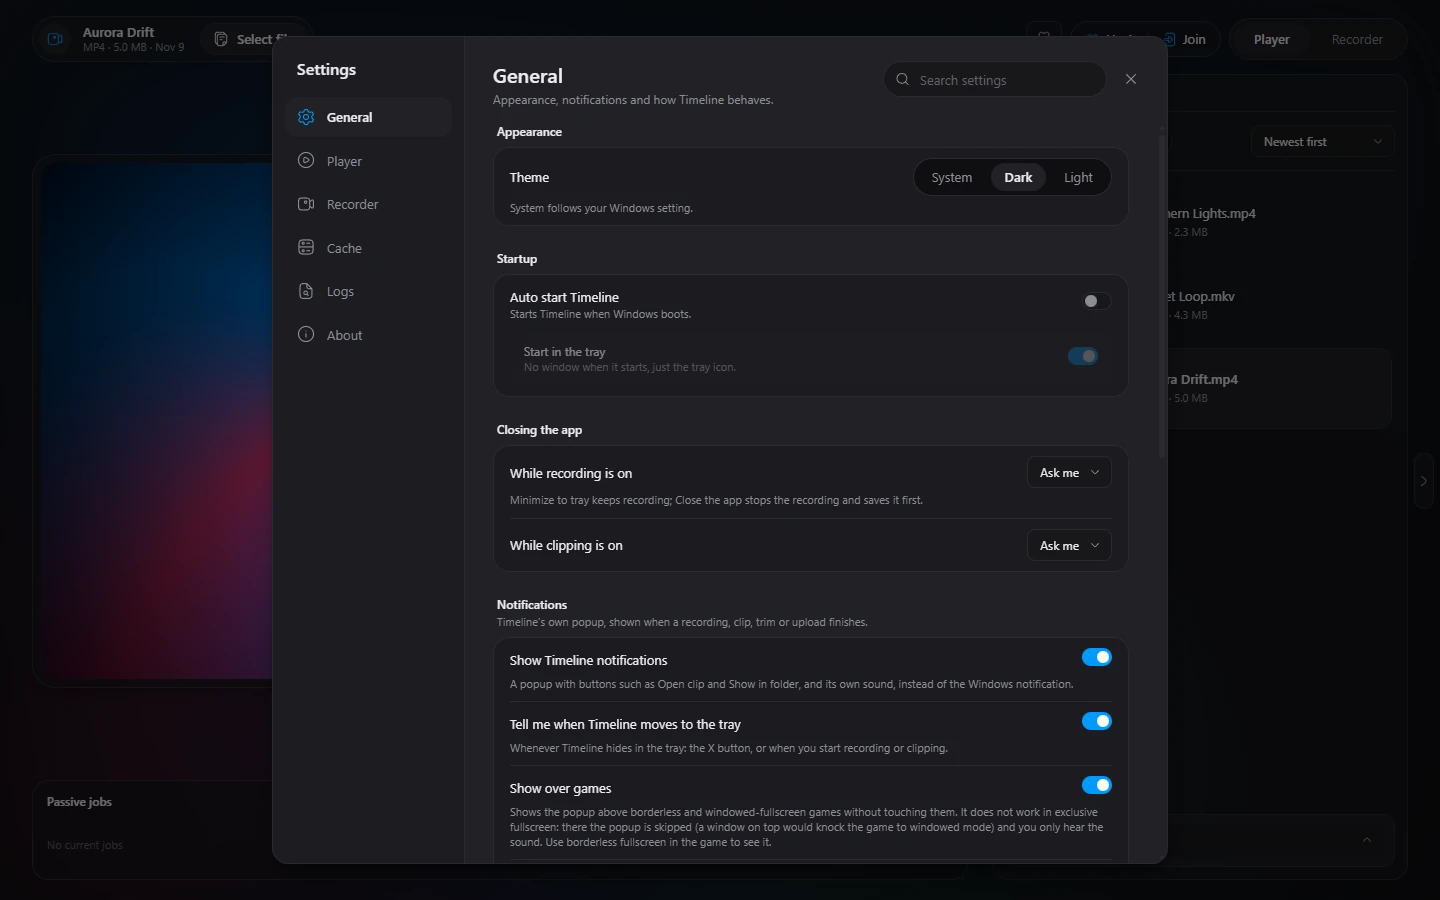
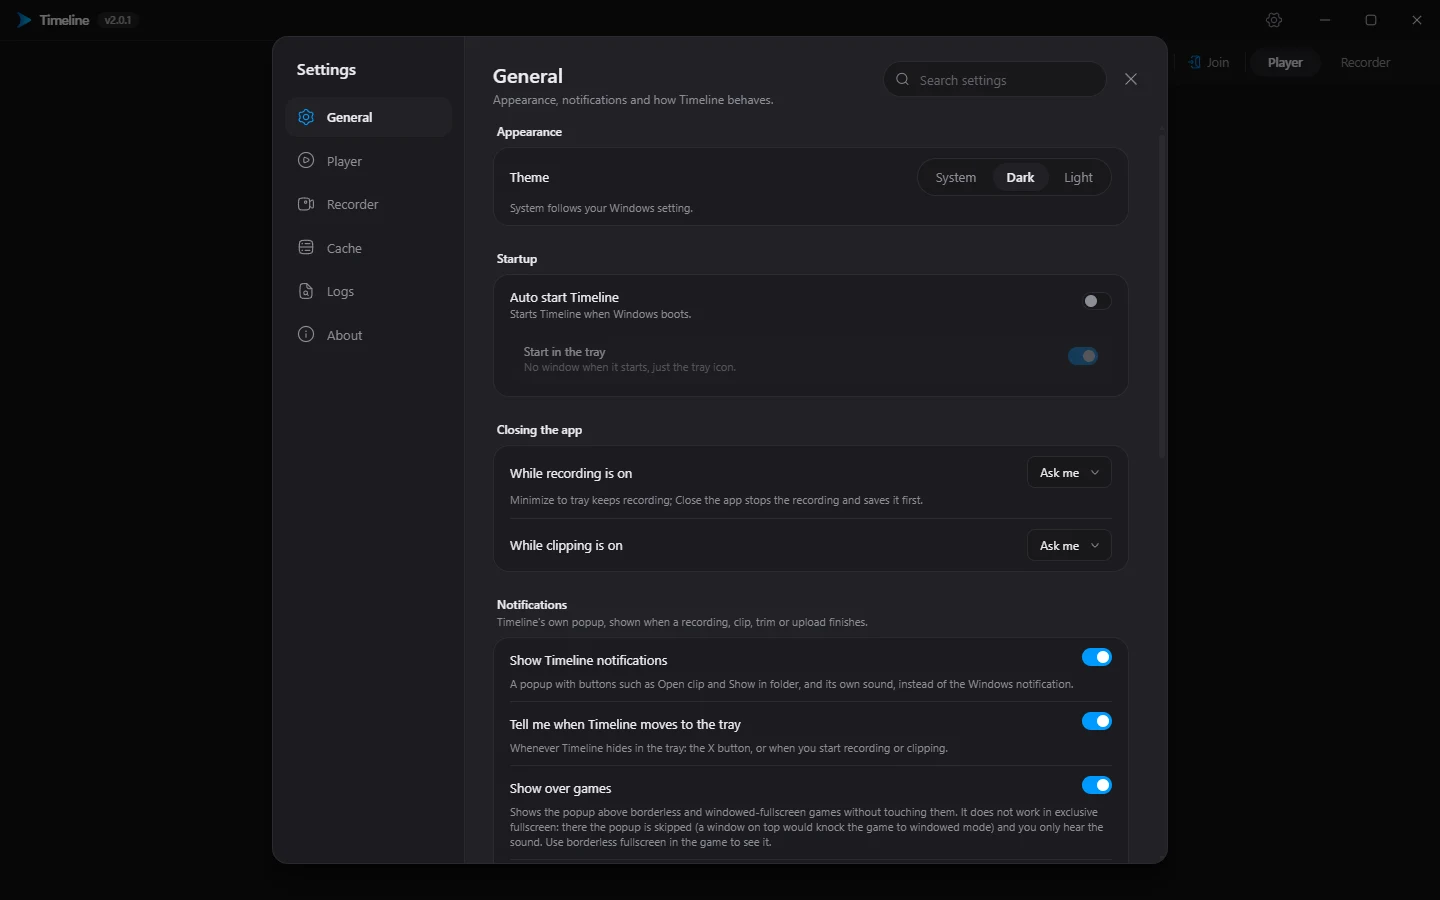
README for 2.0: lighter in 2.0 with the comparison charts, Performance tab, new screenshots

diff --git a/README.md b/README.md
@@ -5,7 +5,8 @@
 # Timeline
 
 **A fast, free media player and screen recorder for Windows.**<br/>
-Seek previews, frame-accurate trimming, one-key clips, and watching together in sync.
+Seek previews, frame-accurate trimming, one-key clips, and watching together in sync.<br/>
+<sub>New in 2.0: rebuilt to be tiny (a 4 MB download) and light, using 2-3x less memory.</sub>
 
 [![Latest release](https://img.shields.io/github/v/release/LAAGU/Timeline-Video-Player?label=latest&color=0099ff&style=flat-square)](../../releases/latest)
 [![Installer downloads](https://img.shields.io/endpoint?url=https%3A%2F%2Ftimeline.softwaretrinkets.com%2Fapi%2Fbadge%2Fdownloads&style=flat-square)](../../releases)
@@ -23,7 +24,7 @@ Seek previews, frame-accurate trimming, one-key clips, and watching together in 
   <img src="assets/screenshots/player-dark.webp" alt="Timeline playing a video, with the file list on the right" width="100%" />
 </picture>
 
-[Player](#-player) · [Recorder](#-recorder) · [Watch together](#-watch-together) · [Shortcuts](#-keyboard-shortcuts) · [Privacy](#-privacy) · [FAQ](#-faq)
+[Lighter in 2.0](#-lighter-in-20) · [Player](#-player) · [Recorder](#-recorder) · [Watch together](#-watch-together) · [Shortcuts](#-keyboard-shortcuts) · [Privacy](#-privacy) · [FAQ](#-faq)
 
 </div>
 
@@ -34,7 +35,74 @@ Seek previews, frame-accurate trimming, one-key clips, and watching together in 
 |  |  |  |
 |---|---|---|
 | 🖼 **Seek previews**<br/><sub>Hover the timeline to see that moment before you jump.</sub> | ✂ **Frame-accurate trimming**<br/><sub>Cut the start and end, save a new file. No editor needed.</sub> | ⚡ **One-key clips**<br/><sub>Always keeps the last seconds ready. <kbd>Alt</kbd>+<kbd>F10</kbd> saves them.</sub> |
-| 🔴 **GPU screen recording**<br/><sub>NVENC, AMD AMF, x264, x265 and AV1 where available.</sub> | 👥 **Watch together**<br/><sub>A 6-digit code, synced playback and chat. No upload.</sub> | 🆓 **Free, nothing else to install**<br/><sub>ffmpeg is built in. No account, no ads.</sub> |
+| 🔴 **GPU screen recording**<br/><sub>NVIDIA, AMD and Intel encoders: H.264, H.265 and AV1.</sub> | 👥 **Watch together**<br/><sub>A 6-digit code, synced playback and chat. No upload.</sub> | 🪶 **Tiny and light**<br/><sub>A 4 MB download. 2-3x less memory than 1.x.</sub> |
+| 📊 **Best settings for my PC**<br/><sub>Recorder settings picked for your graphics card and screen.</sub> | 🎮 **Game benchmark**<br/><sub>Your game's exact FPS, what Timeline costs it, and why frames drop.</sub> | 🆓 **Free**<br/><sub>No account, no ads, nothing else to install.</sub> |
+
+---
+
+## 🪶 Lighter in 2.0
+
+Timeline 2.0 is rebuilt on a much lighter base (Tauri and Rust instead of Electron and ffmpeg). Everything is still here; it just takes far less from your PC. Updating from 1.x is automatic and keeps your settings.
+
+|  | 1.4.4 (Electron + ffmpeg) | **2.0 (Tauri)** |
+|---|---|---|
+| Download | about 260 MB | **about 4 MB** |
+| Installed size | almost 1 GB | **about 14 MB** |
+| Memory, idle | 179 MB | **108 MB** |
+| Memory while recording | 499 MB | **162 MB** |
+| CPU while recording | 1.1 % | **0.2 %** |
+| Trim 60 s of video | **8.8 s** (16.5 % CPU) | 11.2 s (1.4 % CPU) |
+| Compress to 50 MB | 11.1 s | 11.4 s |
+
+<picture>
+  <source media="(prefers-color-scheme: dark)" srcset="assets/perf/memory-dark.png" />
+  <img src="assets/perf/memory-light.png" alt="Memory used per task: 1.4.4 versus 2.0" width="100%" />
+</picture>
+
+<picture>
+  <source media="(prefers-color-scheme: dark)" srcset="assets/perf/cpu-dark.png" />
+  <img src="assets/perf/cpu-light.png" alt="CPU used per task: 1.4.4 versus 2.0" width="100%" />
+</picture>
+
+<picture>
+  <source media="(prefers-color-scheme: dark)" srcset="assets/perf/time-dark.png" />
+  <img src="assets/perf/time-light.png" alt="Time taken per task: 1.4.4 versus 2.0" width="100%" />
+</picture>
+
+<picture>
+  <source media="(prefers-color-scheme: dark)" srcset="assets/perf/data-moved-dark.png" />
+  <img src="assets/perf/data-moved-light.png" alt="Data moved per second while capturing: 1.4.4 versus 2.0" width="100%" />
+</picture>
+
+<details>
+<summary><b>More charts: GPU, and memory / CPU over each task</b></summary>
+<br/>
+
+<picture>
+  <source media="(prefers-color-scheme: dark)" srcset="assets/perf/gpu-dark.png" />
+  <img src="assets/perf/gpu-light.png" alt="GPU used per task: 1.4.4 versus 2.0" width="100%" />
+</picture>
+
+<picture>
+  <source media="(prefers-color-scheme: dark)" srcset="assets/perf/memory-over-time-dark.png" />
+  <img src="assets/perf/memory-over-time-light.png" alt="Memory over each task: 1.4.4 versus 2.0" width="100%" />
+</picture>
+
+<picture>
+  <source media="(prefers-color-scheme: dark)" srcset="assets/perf/cpu-over-time-dark.png" />
+  <img src="assets/perf/cpu-over-time-light.png" alt="CPU over each task: 1.4.4 versus 2.0" width="100%" />
+</picture>
+</details>
+
+<details>
+<summary><b>How it was measured</b></summary>
+<br/>
+
+- **PC:** Ryzen 7 7800X3D (16 threads), RTX 5070, 32 GB, Windows 11. Both versions built for release and run one after the other with fresh settings, 3 runs each (the charts show the middle one; the "over each task" charts show a single run).
+- **Same settings in both:** H.264 on the RTX 5070, 60 fps, 15 Mb/s. Test video: 2 minutes, 1920x1080, 60 fps.
+- **Tasks:** idle; trim 60 s of the video (frame-exact in both); compress the video to 50 MB ("Medium" preset in both); record a window playing the video for 60 s; clipping for 60 s, then save a 30 s clip.
+- **What counts:** every process each version runs (1.4.4: its window and helper processes, recorder service and ffmpeg; 2.0: the app and its window). Memory = private memory, as Task Manager shows it. CPU = share of all 16 threads. GPU = the busiest engine. "Data moved" = what the processes read and write, including the pipes between them: 1.4.4 passes every raw frame from its capture helper to ffmpeg, while 2.0 keeps frames on the graphics card. It is not disk load: the disk stayed 1-2 % busy in both.
+</details>
 
 ---
 
@@ -47,12 +115,12 @@ Seek previews, frame-accurate trimming, one-key clips, and watching together in 
   </tr>
 </table>
 
-- **Plays what you have:** MP4, MKV, WebM, AVI and MOV, plus MP3, WAV, OGG, AAC, M4A, FLAC, Opus and WEBA. Broken files and AVIs are repaired or converted on the fly.
+- **Plays what you have:** MP4, MKV, WebM, AVI and MOV, plus MP3, WAV, OGG, AAC, M4A, FLAC, Opus and WEBA. Broken files and AVIs are repaired or converted on the fly (some very old AVI codecs aren't supported yet; more formats will come with updates).
 - **Seek previews:** 20 pictures per video, made in the background (they can be switched off).
 - **Frame-accurate trimming** with a Save trim panel and a progress bar. The original file is never changed.
-- **Playback speed** from 0.1x to 16x, **frame stepping**, jump to 10%…100% with the number keys, picture-in-picture and fullscreen.
+- **Playback speed** from 0.1x to 16x, **frame stepping**, jump to 10%…100% with the number keys, fullscreen, and **picture-in-picture** in a small window that stays on top.
 - **Captions** (SRT and VTT) with a delay setting.
-- **Compress** a video to a target size with your GPU's encoder, and **upload** it to Gofile to get a link.
+- **Compress** a video to a target size with your graphics card's encoder (NVIDIA, AMD, Intel) or Windows' own, and **upload** it to Gofile to get a link.
 - **Ambient mode:** a soft glow of the video's colours behind the player.
 - **File list** with thumbnails, filters and sorting. Open files from Explorer, or make Timeline your default player.
 - **Themes:** Dark, Light, or follow Windows.
@@ -74,12 +142,12 @@ Seek previews, frame-accurate trimming, one-key clips, and watching together in 
   </tr>
 </table>
 
-- **Record** a whole display, one window, or any fullscreen window, encoded on the GPU (NVENC, AMD AMF, x264, x265, AV1 where available).
+- **Record** a whole display, one window, or any fullscreen window, encoded on your graphics card (NVIDIA, AMD or Intel: H.264, H.265 and AV1 where the card supports them), or with Windows' own H.264 encoder on the CPU. Captured frames stay on the graphics card all the way to the file.
 - **Clipping (replay buffer):** turn on **Clipping** and Timeline keeps the last 15 seconds to 5 minutes on disk (or any length from 5 s to 10 min). <kbd>Alt</kbd>+<kbd>F10</kbd> saves a clip instantly, without re-encoding. Recording and clipping can run at the same time.
 - **Audio:** desktop sound, your microphone, or both, mixed or on separate tracks. When you capture one window, it can record just that program's sound.
 - **Your settings:** resolution, frame rate, bitrate in Kbps (constant or variable), encoder and quality preset, and **MKV** (survives crashes) or **MP4**.
 - **Runs from the tray** with the window closed, can start with Windows and start clipping by itself.
-- **Safe:** crash recovery for unfinished recordings, a disk-space guard, automatic resume after a lock screen or sleep, and a fallback to x264 if an encoder fails.
+- **Safe:** crash recovery for unfinished recordings, a disk-space guard, and automatic resume after a lock screen or sleep.
 - **Pop-up notifications** with buttons (*Open clip*, *Show in folder*) and their own sound, shown over borderless and windowed games.
 - **Live preview** of what is being recorded, and Timeline's own CPU, memory and GPU use.
 
@@ -87,6 +155,24 @@ Seek previews, frame-accurate trimming, one-key clips, and watching together in 
 <summary><b>See the audio settings</b></summary>
 <br/>
 <img src="assets/screenshots/recorder-audio.webp" alt="The Audio tab: desktop audio, microphone, tracks and quality" />
+</details>
+
+### 📊 Performance tab
+
+<table>
+  <tr>
+    <td width="50%" align="center"><img src="assets/screenshots/performance-settings.webp" alt="Best settings for my PC: each suggested setting with the reason" width="374" /><br/><sub><b>Best settings for my PC:</b> each setting with the reason; nothing changes until you apply it.</sub></td>
+    <td width="50%" align="center"><img src="assets/screenshots/performance-benchmark.webp" alt="Benchmark results: average and low FPS, stutters, what Timeline used, frame rate drops with their cause" width="374" /><br/><sub><b>Benchmark:</b> exact FPS, stutters, what Timeline used, and why frames dropped.</sub></td>
+  </tr>
+</table>
+
+- **Best settings for my PC** looks at your graphics card, screen, CPU and memory, and suggests the encoder, preset, frame rate, resolution and bitrate that record well without slowing your games, each with the reason.
+- **Benchmark:** start it (or press <kbd>Ctrl</kbd>+<kbd>Alt</kbd>+<kbd>B</kbd> in game), play, and stop. Timeline reads your game's exact frame times (Windows asks once for administrator rights), measures what Timeline itself used, and explains every drop: Timeline, a busy CPU or GPU, or the game itself. Copy the results as text, open them as a graph, or send them to the developer with a note.
+
+<details>
+<summary><b>See the benchmark graph</b></summary>
+<br/>
+<img src="assets/screenshots/benchmark-graph.webp" alt="The benchmark graph: frame rate, every frame's time, and the CPU / GPU load on one time line, with drops and Timeline's actions marked" />
 </details>
 
 ---
@@ -112,7 +198,7 @@ Seek previews, frame-accurate trimming, one-key clips, and watching together in 
 
 <img src="assets/screenshots/settings.webp" alt="The Settings window on its General page" />
 
-One window with **General, Player, Recorder, Cache, Logs** and **About**: theme, start-up and closing behaviour, notifications, the default player, every hotkey, a **cache manager** that shows what Timeline stores and clears it, readable logs for bug reports, and the release notes.
+One window with **General, Player, Recorder, Cache, Logs** and **About**: theme, start-up and closing behaviour, notifications, the default player, every hotkey, a **cache manager** that shows what Timeline stores and clears it, readable logs for bug reports (and a button to send a problem report to the developer), and the release notes.
 
 ---
 
@@ -125,7 +211,7 @@ Every shortcut can be changed in Settings.
 | <kbd>Space</kbd> | Play / pause | <kbd>Alt</kbd>+<kbd>F11</kbd> | Start recording |
 | <kbd>←</kbd> <kbd>→</kbd> | Skip 10 s | <kbd>Alt</kbd>+<kbd>F12</kbd> | Stop recording |
 | <kbd>Ctrl</kbd>+<kbd>←</kbd> <kbd>→</kbd> | One frame back / forward | <kbd>Alt</kbd>+<kbd>F10</kbd> | Save a clip |
-| <kbd>↑</kbd> <kbd>↓</kbd> | Volume | | |
+| <kbd>↑</kbd> <kbd>↓</kbd> | Volume | <kbd>Ctrl</kbd>+<kbd>Alt</kbd>+<kbd>B</kbd> | Start / stop a benchmark |
 | <kbd>1</kbd> … <kbd>9</kbd>, <kbd>0</kbd> | Jump to 10% … 100% | | |
 | <kbd>M</kbd> · <kbd>F</kbd> · <kbd>Shift</kbd>+<kbd>P</kbd> | Mute · Fullscreen · Picture-in-picture | | |
 | <kbd>D</kbd> · <kbd>A</kbd> | Next · Previous file | | |
@@ -136,8 +222,8 @@ Every shortcut can be changed in Settings.
 ## 📦 Download
 
 1. Get the installer from the **[latest release](../../releases/latest)** (or the [website](https://timeline.softwaretrinkets.com)).
-2. Run it. That's all: ffmpeg and everything else Timeline needs come with it.
-3. Timeline updates itself from GitHub releases, and shows what's new after each update.
+2. Run it. That's all: everything Timeline needs is in the 4 MB installer.
+3. Timeline updates itself from GitHub releases, and shows what's new after each update. On 1.x? It moves to 2.0 by itself and keeps your settings.
 
 **Requires** Windows 10 or 11.
 
@@ -155,6 +241,8 @@ Timeline can share **anonymous usage data** to find bugs and decide what to impr
 | Time zone and language | File names, folders or anything you play or record |
 | How often features are used (counts only) | Web addresses or e-mail addresses |
 | Grouped error messages, with file paths removed | |
+
+**Problem reports and benchmarks** are sent to the developer only when you press *Send* (Settings → Logs, Recorder → Performance), with file names, paths and e-mail addresses removed first.
 
 ---
 
@@ -194,6 +282,12 @@ By default in a <code>Timeline</code> folder inside your Videos folder. You can 
 <summary><b>A recorder hotkey does nothing.</b></summary>
 <br/>
 Another program (often a GPU overlay, which can use <kbd>Alt</kbd>+<kbd>F10</kbd>) owns the key. Timeline shows a warning; pick a new key in the Recorder's <b>Keys</b> tab.
+</details>
+
+<details>
+<summary><b>Why does the benchmark ask for administrator rights?</b></summary>
+<br/>
+To read your game's exact frame times, Timeline uses Windows' own frame tracing (the same as PresentMon), which Windows only allows with administrator rights. It asks once when a benchmark starts; nothing else in Timeline ever needs them.
 </details>
 
 <details>
